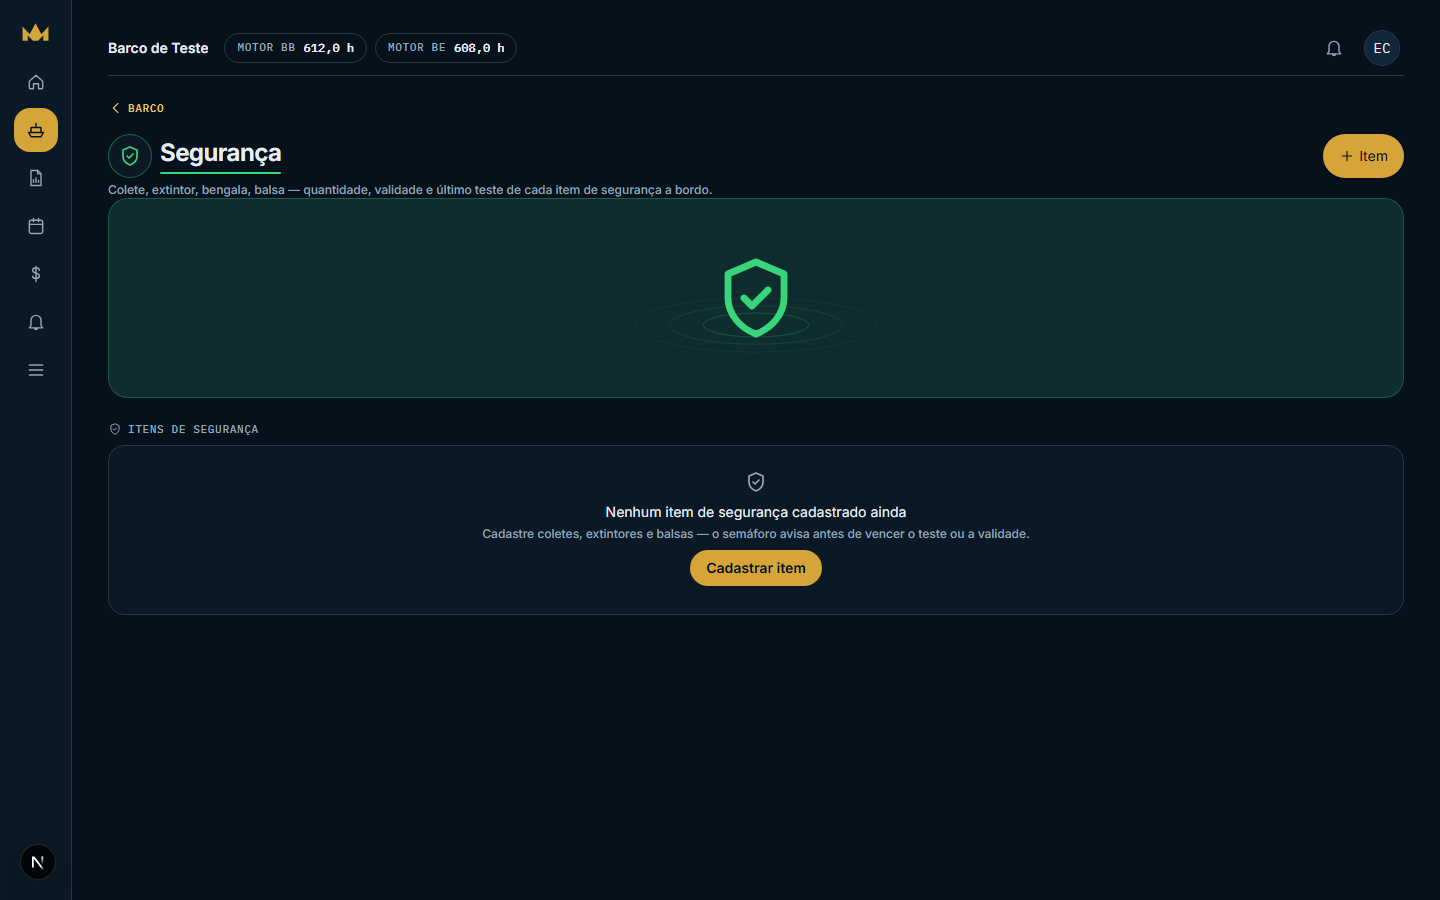
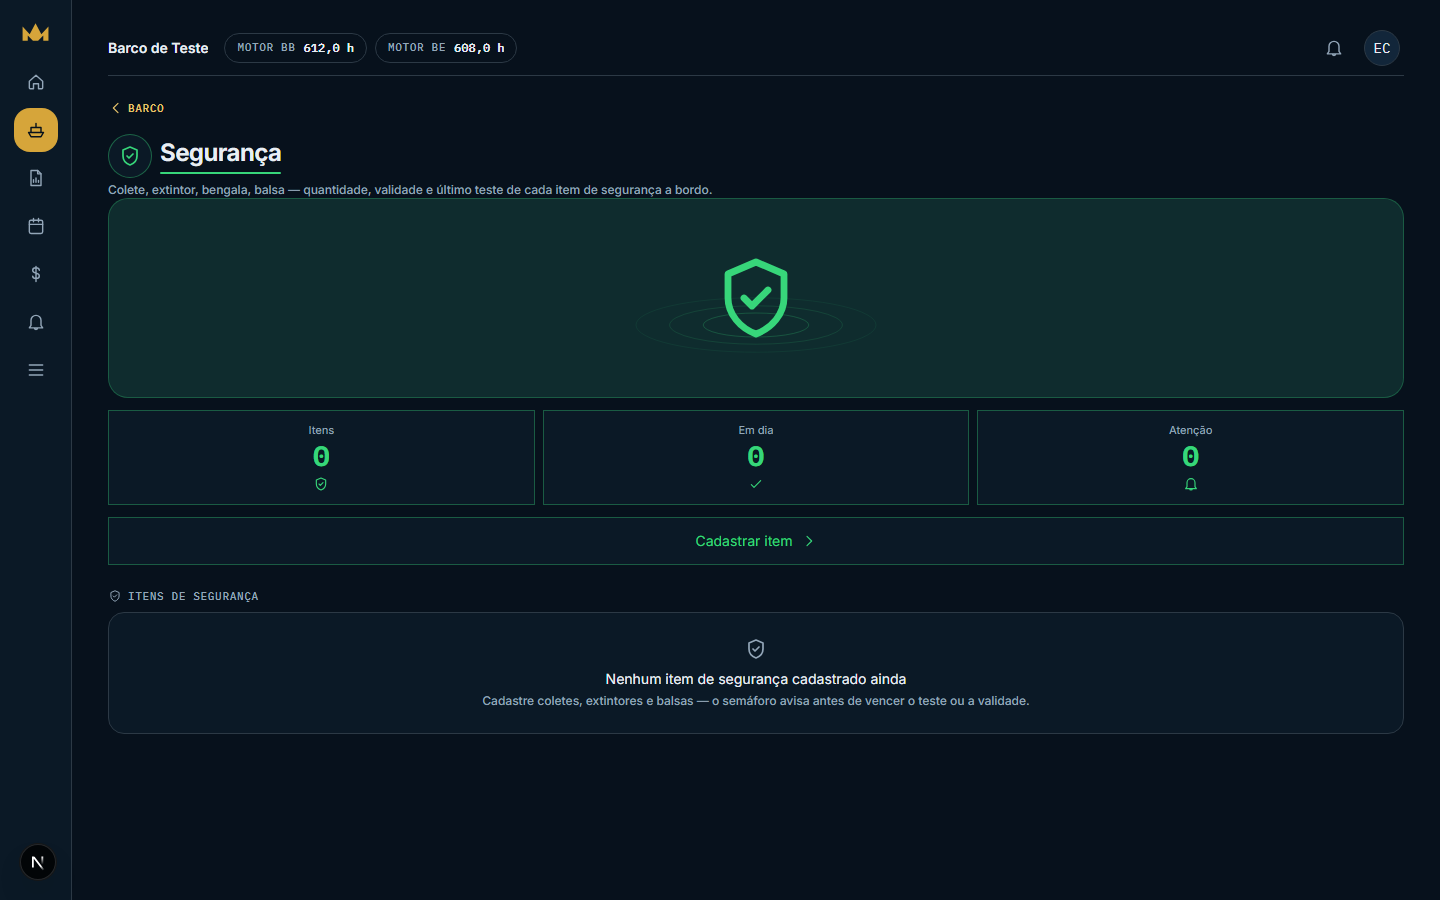
feat(onda 106): a tela de hub ganha a metade de baixo da imagem 3
A onda 105 entregou o topo (cabeçalho, cartucho, título, objeto). Faltava o
que a imagem 3 desenha DEPOIS dele, e é igual nas quatro telas de hub que ela
mostra: **três cartões de número** e **um botão de largura cheia** com a ação
daquele hub.

Segurança é a tela-piloto porque é a que a imagem mostra literalmente:
"Itens 24 · Em dia 22 · Atenção 2". As outras sete seguem no mesmo padrão
quando a questão dos assets 3D estiver resolvida — mexer nelas antes e depois
de trocar o herói seria fazer o mesmo trabalho duas vezes.

-----------------------------------------------------------------------------
A COR DO NÚMERO NÃO É SEMPRE A DO HUB, E A EXCEÇÃO É A REGRA INTEIRA
-----------------------------------------------------------------------------
Na imagem, "Itens" e "Em dia" saem em VERDE (a cor do hub) e "Atenção" sai em
ÂMBAR. Não é inconsistência do desenho — é o §4 e o §5 do guia funcionando
juntos:

  · o número é MOLDURA do hub enquanto é só contagem → cor do hub;
  · o número vira ESTADO quando responde "isto precisa de você" → warn/crit.

Por isso `estado` é prop e não inferência: quem monta a tela sabe se aquele
"2" é censo ou alerta. E ZERO NUNCA SAI EM COR DE ALERTA: "Atenção 0" é a
confirmação ativa de que nada pede nada, e pintá-lo de âmbar diria o contrário
do que ele diz.

-----------------------------------------------------------------------------
O BOTÃO É DE LARGURA CHEIA, E A PÍLULA DOURADA DO CABEÇALHO SAI
[…]

diff --git a/web/components/ui/numeros-do-hub.tsx b/web/components/ui/numeros-do-hub.tsx
@@ -1,0 +1,135 @@
+import Link from "next/link"
+import { Icone, type NomeIcone } from "@/components/icone"
+import { hub, type ChaveHub } from "@/lib/ui/hubs"
+import { TOQUE } from "@/lib/ui/acoes"
+
+/**
+ * A TRINCA DE NÚMEROS DO TOPO DE UM HUB, E O BOTÃO QUE FECHA A TELA.
+ * ===========================================================================
+ * Anatomia da imagem 3 do Guia de Design v1 (as quatro telas de hub lado a
+ * lado), que é normativa para composição pelo §1. Depois do objeto grande, as
+ * quatro telas mostram exatamente a mesma coisa: **três cartões de número** e,
+ * abaixo deles, **um botão de largura cheia** com a ação daquele hub.
+ *
+ * ---------------------------------------------------------------------------
+ * A COR DO NÚMERO NÃO É SEMPRE A DO HUB, E A EXCEÇÃO É A REGRA INTEIRA
+ * ---------------------------------------------------------------------------
+ * Repare no cartão de Segurança da imagem: "Itens 24" e "Em dia 22" saem em
+ * VERDE (a cor do hub), e "Atenção 2" sai em ÂMBAR. Não é inconsistência do
+ * desenho — é o §4 e o §5 do guia funcionando juntos:
+ *
+ *   · o número é MOLDURA do hub enquanto ele é só uma contagem → cor do hub;
+ *   · o número vira ESTADO quando ele responde "isto precisa de você" →
+ *     `--warn` ou `--crit`, que é o que verde/âmbar/vermelho significam nesta
+ *     casa e em nenhum outro lugar.
+ *
+ * Por isso `estado` é uma prop, e não uma inferência: quem monta a tela sabe
+ * se aquele "2" é um censo ou um alerta. `undefined` = contagem.
+ *
+ * E VALOR ZERO CONTINUA APARECENDO, mas nunca em cor de alerta — "Atenção 0"
+ * é a confirmação ativa de que nada pede nada, e pintá-lo de âmbar diria o
+ * contrário do que ele diz. Quem chama passa `estado` só quando o número é
+ * maior que zero; há teste.
+ *
+ * ---------------------------------------------------------------------------
+ * O BOTÃO É DE LARGURA CHEIA, E ISSO NÃO É SÓ ESTÉTICA
+ * ---------------------------------------------------------------------------
+ * Nas oito telas de hub a ação vivia numa pílula dourada de ~100px encostada
+ * no canto superior direito, ao lado do título. A imagem 3 põe um botão de
+ * largura cheia, com o verbo por extenso e uma seta. É a diferença entre um
+ * controle que a pessoa PROCURA e um que ela ENCONTRA — e o pedido do dono
+ * nesta rodada foi literal: *"uma criança deve saber mexer nele com
+ * facilidade"*.
+ *
+ * ELE É NA COR DO HUB E NÃO NO DOURADO, e isso não fura o §3.4 (dourado é a
+ * ação principal): o §5 autoriza a cor do hub *"no card daquele sistema"*, e
+ * dentro da tela de Segurança o botão de Segurança é exatamente isso. Fura
+ * seria pintar um botão de Segurança dentro de Motores. O dourado continua
+ * sendo a ação de nível APP (Registrar saída, Salvar, Assinar) — e é por isso
+ * que a pílula dourada do cabeçalho SAI quando este botão entra: duas ações
+ * principais na mesma tela é a coisa que o §6.2 do `docs/DESIGN.md` proíbe, e
+ * as duas eram a mesma ação escrita duas vezes.
+ */
+export function NumerosDoHub({
+  chave,
+  numeros,
+  className = "",
+}: {
+  chave: ChaveHub
+  /** Exatamente três — é o que a imagem desenha e o que cabe em 390px sem
+   *  truncar rótulo. O tipo cobra os três; o teste cobra o resto. */
+  numeros: readonly [NumeroDoHub, NumeroDoHub, NumeroDoHub]
+  className?: string
+}) {
+  const h = hub(chave)
+  return (
+    <div className={`grid grid-cols-3 gap-2 ${className}`}>
+      {numeros.map((n) => (
+        <div
+          key={n.rotulo}
+          className={`raio-cartao flex flex-col items-center gap-1 border bg-panel px-2 py-3 text-center ${h.borda}`}
+        >
+          {/* O rótulo primeiro e o valor depois — ordem de leitura da imagem, e
+              a que faz sentido em áudio: "Em dia, 22" é uma frase; "22, em
+              dia" é um número à procura de contexto.
+              `leading-tight` e `break-words`: "Sem informação" a 390px divide
+              a coluna em três de ~110px, e sem isso ele estoura. */}
+          <span className="rotulo-dado leading-tight break-words text-dim">{n.rotulo}</span>
+          <span
+            className={`font-mono-instr tabular-nums text-[28px] font-bold leading-none ${
+              n.estado === "critico" ? "text-crit" : n.estado === "atencao" ? "text-warn" : h.tom
+            }`}
+          >
+            {n.valor}
+          </span>
+          {n.icone && (
+            <Icone
+              nome={n.icone}
+              aria-hidden="true"
+              className={`mt-0.5 size-4 ${
+                n.estado === "critico" ? "text-crit" : n.estado === "atencao" ? "text-warn" : h.tom
+              }`}
+            />
+          )}
+        </div>
+      ))}
+    </div>
+  )
+}
+
+export type NumeroDoHub = {
+  rotulo: string
+  /** Já formatado. Este componente não formata número — quem chama decide a
+   *  régua, como em `Kpi` e `PastilhaKpi`. */
+  valor: string
+  icone?: NomeIcone
+  /** Só quando o número É um alerta. Contagem comum fica sem, e sai na cor do
+   *  hub. Nunca passar em valor zero. */
+  estado?: "atencao" | "critico"
+}
+
+export function AcaoDoHub({
+  chave,
+  href,
+  children,
+  className = "",
+}: {
+  chave: ChaveHub
+  href: string
+  children: string
+  className?: string
+}) {
+  const h = hub(chave)
+  return (
+    <Link
+      href={href}
+      /* `min-h-[var(--altura-campo)]` (48px) e não `--altura-controle` (44):
+         a régua da casa é que a ação que FECHA uma tela herda a altura do
+         campo, e é o que alinha esta barra com o resto da coluna. */
+      className={`raio-controle transicao-ui flex min-h-[var(--altura-campo)] w-full items-center justify-center gap-2 border bg-panel corpo font-semibold hover:bg-panel2 ${h.borda} ${h.tom} ${TOQUE} ${className}`}
+    >
+      {children}
+      <Icone nome="chevron" aria-hidden="true" className="size-4" />
+    </Link>
+  )
+}

diff --git a/web/app/(app)/barco/seguranca/page.tsx b/web/app/(app)/barco/seguranca/page.tsx
@@ -1,12 +1,11 @@
-import Link from "next/link"
 import { redirect } from "next/navigation"
 import { Farol, FarolOcorrencia } from "@/components/farol"
-import { Icone } from "@/components/icone"
 import { EstadoVazio } from "@/components/ui/estado-vazio"
 import { LinhaLista } from "@/components/ui/linha-lista"
 import { SecaoPagina } from "@/components/ui/secao-pagina"
 import { CabecalhoDetalhe } from "@/components/ui/cabecalho-detalhe"
 import { HeroiTecnico } from "@/components/ui/heroi-tecnico"
+import { AcaoDoHub, NumerosDoHub } from "@/components/ui/numeros-do-hub"
 import { carregarPainel, hojeISO, itemMonitoradoToItemCalc } from "@/lib/consultas"
 import { CATEGORIA_SEGURANCA } from "@/lib/domain/diario"
 import { ESTADOS_QUE_PESAM_NA_SAUDE, ROTULO_ESTADO } from "@/lib/domain/ocorrencias"
@@ -31,6 +30,24 @@ export default async function SegurancaPage() {
     .in("estado", [...ESTADOS_QUE_PESAM_NA_SAUDE]).order("created_at", { ascending: false })
   const ocorrencias = (ocorrenciasBrutas ?? []) as Ocorrencia[]
 
+  /**
+   * ONDA 106 — A TRINCA DE NÚMEROS DA IMAGEM 3, e ela é literalmente esta:
+   * o cartão de Segurança do guia mostra "Itens 24 · Em dia 22 · Atenção 2".
+   *
+   * A régua de quem entra na conta é `calcularSemaforo`, a MESMA da lista
+   * abaixo — recontar por fora era como a faixa de Documentos e a frase de
+   * resumo daquela tela chegaram a discordar (onda 92). E o mesmo `.map` já
+   * roda na lista; aqui ele sobe para o topo do componente e a lista passa a
+   * ler o resultado, então não há cálculo repetido.
+   */
+  const avaliados = itens.map((i) => ({
+    item: i,
+    r: calcularSemaforo(itemMonitoradoToItemCalc(i), null, hoje),
+    venc: vencimentoPorData(itemMonitoradoToItemCalc(i)),
+  }))
+  const emDia = avaliados.filter((a) => a.r.status === "ok").length
+  const pedemAtencao = avaliados.filter((a) => a.r.status !== "ok").length
+
   return (
     <main>
       {/* ONDA 104 (§8 do Guia) — cabeçalho padrão, com a identidade do hub. */}
@@ -39,21 +56,46 @@ export default async function SegurancaPage() {
         voltarRotulo="Barco"
         hub="seguranca"
         descricao="Colete, extintor, bengala, balsa — quantidade, validade e último teste de cada item de segurança a bordo."
-        acao={editavel ? (
-          <Link
-            href={`/barco/itens/novo?alvo=${encodeURIComponent(`cat:${CATEGORIA_SEGURANCA}`)}`}
-            className="inline-flex min-h-[var(--altura-controle)] shrink-0 items-center gap-1 rounded-[var(--raio-pilula)] bg-accent px-4 corpo font-semibold text-acao-texto"
-          >
-            <Icone nome="mais" className="size-4" /> Item
-          </Link>
-        ) : undefined}
+        /* ONDA 106 — A PÍLULA DOURADA DO CABEÇALHO SAIU. A ação desceu para o
+           botão de largura cheia logo abaixo dos números, que é onde a imagem 3
+           a desenha. Manter as duas seria a MESMA ação escrita duas vezes na
+           mesma tela — e duas ações principais numa tela é o que o §6.2 do
+           `docs/DESIGN.md` proíbe. */
       />
 
       {/* ONDA 105 — o objeto grande do topo, como nas oito imagens do guia.
           É ilustração técnica, não render 3D nem foto: ver o cabeçalho de
           `components/ui/heroi-tecnico.tsx` e o desvio de biblioteca de assets
           registrado em `docs/DESIGN-SYSTEM.md`. */}
-      <HeroiTecnico chave="seguranca" className="mb-4" />
+      <HeroiTecnico chave="seguranca" className="mb-3" />
+
+      {/* Os três números da imagem 3. "Atenção" é o único que pode virar cor de
+          ESTADO — e só quando é maior que zero: "Atenção 0" em âmbar diria o
+          contrário do que o zero diz (ver `numeros-do-hub.tsx`). */}
+      <NumerosDoHub
+        chave="seguranca"
+        className="mb-3"
+        numeros={[
+          { rotulo: "Itens", valor: String(itens.length), icone: "seguranca" },
+          { rotulo: "Em dia", valor: String(emDia), icone: "check" },
+          {
+            rotulo: "Atenção",
+            valor: String(pedemAtencao),
+            icone: "alerta",
+            estado: pedemAtencao > 0 ? "atencao" : undefined,
+          },
+        ]}
+      />
+
+      {editavel && (
+        <AcaoDoHub
+          chave="seguranca"
+          href={`/barco/itens/novo?alvo=${encodeURIComponent(`cat:${CATEGORIA_SEGURANCA}`)}`}
+          className="mb-4"
+        >
+          Cadastrar item
+        </AcaoDoHub>
+      )}
 
       {ocorrencias.length > 0 && (
         <>
@@ -84,12 +126,17 @@ export default async function SegurancaPage() {
             icone="seguranca"
             titulo="Nenhum item de segurança cadastrado ainda"
             descricao="Cadastre coletes, extintores e balsas — o semáforo avisa antes de vencer o teste ou a validade."
-            acao={editavel ? { href: `/barco/itens/novo?alvo=${encodeURIComponent(`cat:${CATEGORIA_SEGURANCA}`)}`, rotulo: "Cadastrar item" } : undefined}
+            /* ONDA 106 — SEM AÇÃO AQUI QUANDO O BOTÃO DO HUB EXISTE.
+               `AcaoDoHub` fica duas peças acima com o MESMO destino; dois
+               botões para a mesma coisa em 200px de tela é o que faz alguém
+               parar pra decidir qual apertar. Para quem só VÊ, os dois somem
+               juntos e sobra o texto, que continua explicando o vazio. */
           />
         )}
-        {itens.map((i) => {
-          const r = calcularSemaforo(itemMonitoradoToItemCalc(i), null, hoje)
-          const venc = vencimentoPorData(itemMonitoradoToItemCalc(i))
+        {/* Lê o MESMO `avaliados` que alimenta a trinca lá em cima: se a lista
+            recalculasse por conta própria, o "Em dia 22" e as linhas poderiam
+            discordar num item de borda. */}
+        {avaliados.map(({ item: i, r, venc }) => {
           const dias = r.diasRestantes != null
             ? r.diasRestantes < 0 ? `vencido há ${-r.diasRestantes} d` : `${r.diasRestantes} dias`
             : "—"
